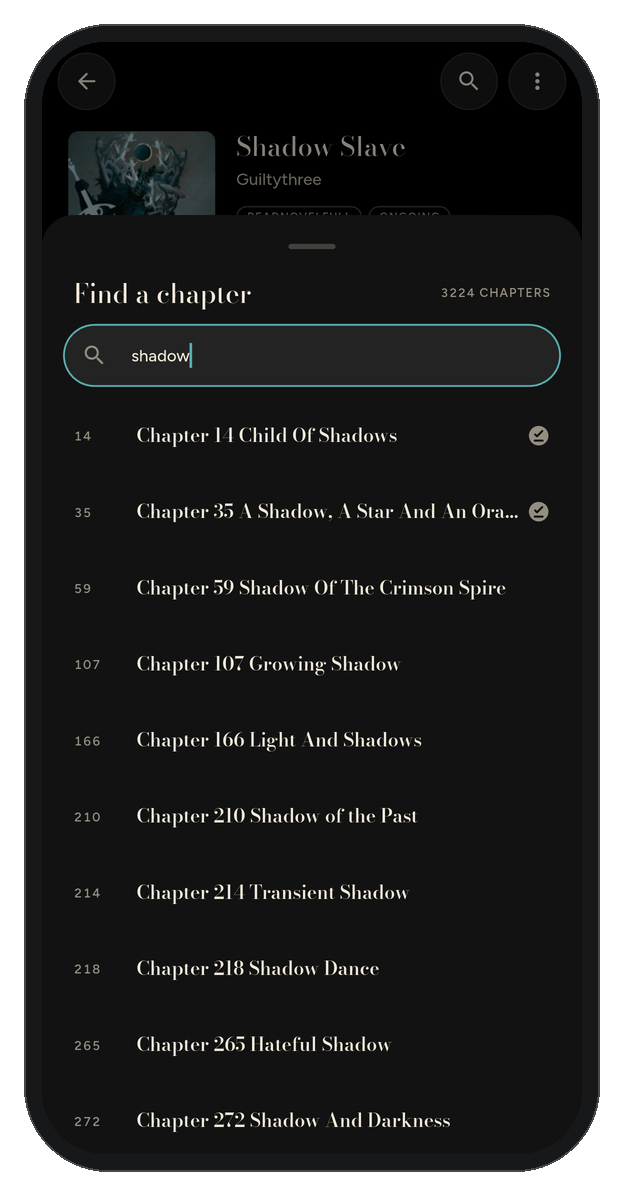
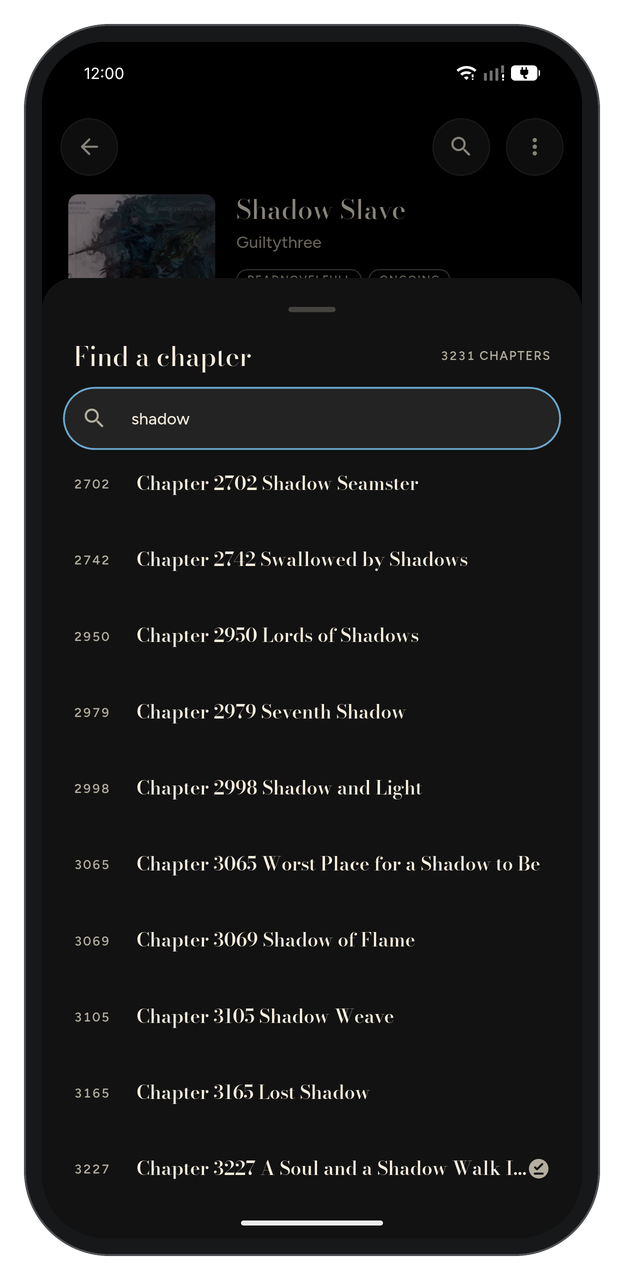
docs: README screenshots of 1.4.0, fresh from the phone
All eleven taken from the phone this morning: the library, A Storm of
Swords' page, Red Rising read aloud, Shadow Slave's page and Find a
chapter, Settings with Wallpaper and Your own, and Now Playing upright
and on its side. Three are new: the Characters list with four voices of
their own, the Your own colours editor and the Papyrus page. Each is
framed alike, status bar and all, at half the phone's size.

diff --git a/README.md b/README.md
@@ -16,21 +16,28 @@ sentence, the spoken word highlighted, in your phone's voices or natural ones in
 languages, with the screen off if you like.
 
 <p align="center">
-  <img src="docs/images/library.png" width="240" alt="The library's Later shelf as cover tiles, each with its format, language and progress, and the book being read waiting at the bottom with a play button">
+  <img src="docs/images/library.png" width="240" alt="The library's Reading shelf as cover tiles, each with its format, language and progress, and Red Rising, the book being read, waiting at the bottom with a play button">
   &nbsp;
-  <img src="docs/images/book.png" width="240" alt="Alice in Wonderland's page in the colours of its cover: Find a chapter and the book's menu at the top, Continue and Read, the voice chosen for this book, and its chapters with the current one marked">
+  <img src="docs/images/book.png" width="240" alt="A Storm of Swords' page: its shelf, Book 3 of A Song of Ice and Fire, Continue and Read, the voice chosen for this book, the characters with voices of their own, and its chapters with the current one marked">
   &nbsp;
-  <img src="docs/images/reader.png" width="240" alt="Reading Shadow Slave aloud: the spoken sentence and word highlighted, the chapter and 2000/3224 at the top, and the player">
+  <img src="docs/images/reader.png" width="240" alt="Reading Red Rising aloud: the spoken sentence lit and its word marked, the chapter and place at the top, and the player with its speed, time left and voice">
 </p>
 <p align="center">
-  <img src="docs/images/novel.png" width="240" alt="Shadow Slave's page: the web novel's site, status and 3224 chapters, the place reached, Continue and Read, and the chapters with the downloaded ones ticked">
+  <img src="docs/images/novel.png" width="240" alt="Shadow Slave's page: the web novel's site, status and 3231 chapters, the place reached, Continue and Read, its tags and a saved bookmark">
   &nbsp;
-  <img src="docs/images/find-chapter.png" width="240" alt="Find a chapter: typing shadow narrows Shadow Slave's 3224 chapters to those with it in their title">
+  <img src="docs/images/find-chapter.png" width="240" alt="Find a chapter: typing shadow narrows Shadow Slave's 3231 chapters to those with it in their title">
   &nbsp;
-  <img src="docs/images/settings.png" width="240" alt="Settings: five colour themes, colours from book covers, and the reading type, size, spacing and margins">
+  <img src="docs/images/settings.png" width="240" alt="Settings: seven colour themes, Wallpaper and Your own among them, colours from book covers, and the reading page, text size and font">
 </p>
 <p align="center">
-  <img src="docs/images/now-playing.png" width="240" alt="Now Playing: Red Rising's cover above the page around the voice, the sentence being read lit and its word in the cover's red, the paragraphs before and after fading away, and a soft glow behind the controls">
+  <img src="docs/images/characters.png" width="240" alt="Characters in A Storm of Swords: who speaks is found from the speech tags, Tyrion, Jaime, Dany and Jon each read in a voice of their own and the rest in the dialogue voice">
+  &nbsp;
+  <img src="docs/images/own-colours.png" width="240" alt="Your own colours: the page, accent and text picked from swatches or by hue and shade, above a preview of how they will look">
+  &nbsp;
+  <img src="docs/images/papyrus.png" width="240" alt="A Storm of Swords on the Papyrus page: Chapter 1, Jaime, the place marked and the time left in the chapter">
+</p>
+<p align="center">
+  <img src="docs/images/now-playing.png" width="240" alt="Now Playing: Red Rising's cover above the page around the voice, the sentence being read lit, the paragraphs before and after fading away, and a soft glow behind the controls">
   &nbsp;
   <img src="docs/images/now-playing-landscape.png" width="520" alt="Now Playing on its side: the cover beside the page, the sentence being read lit, the chapter bar and the controls">
 </p>
